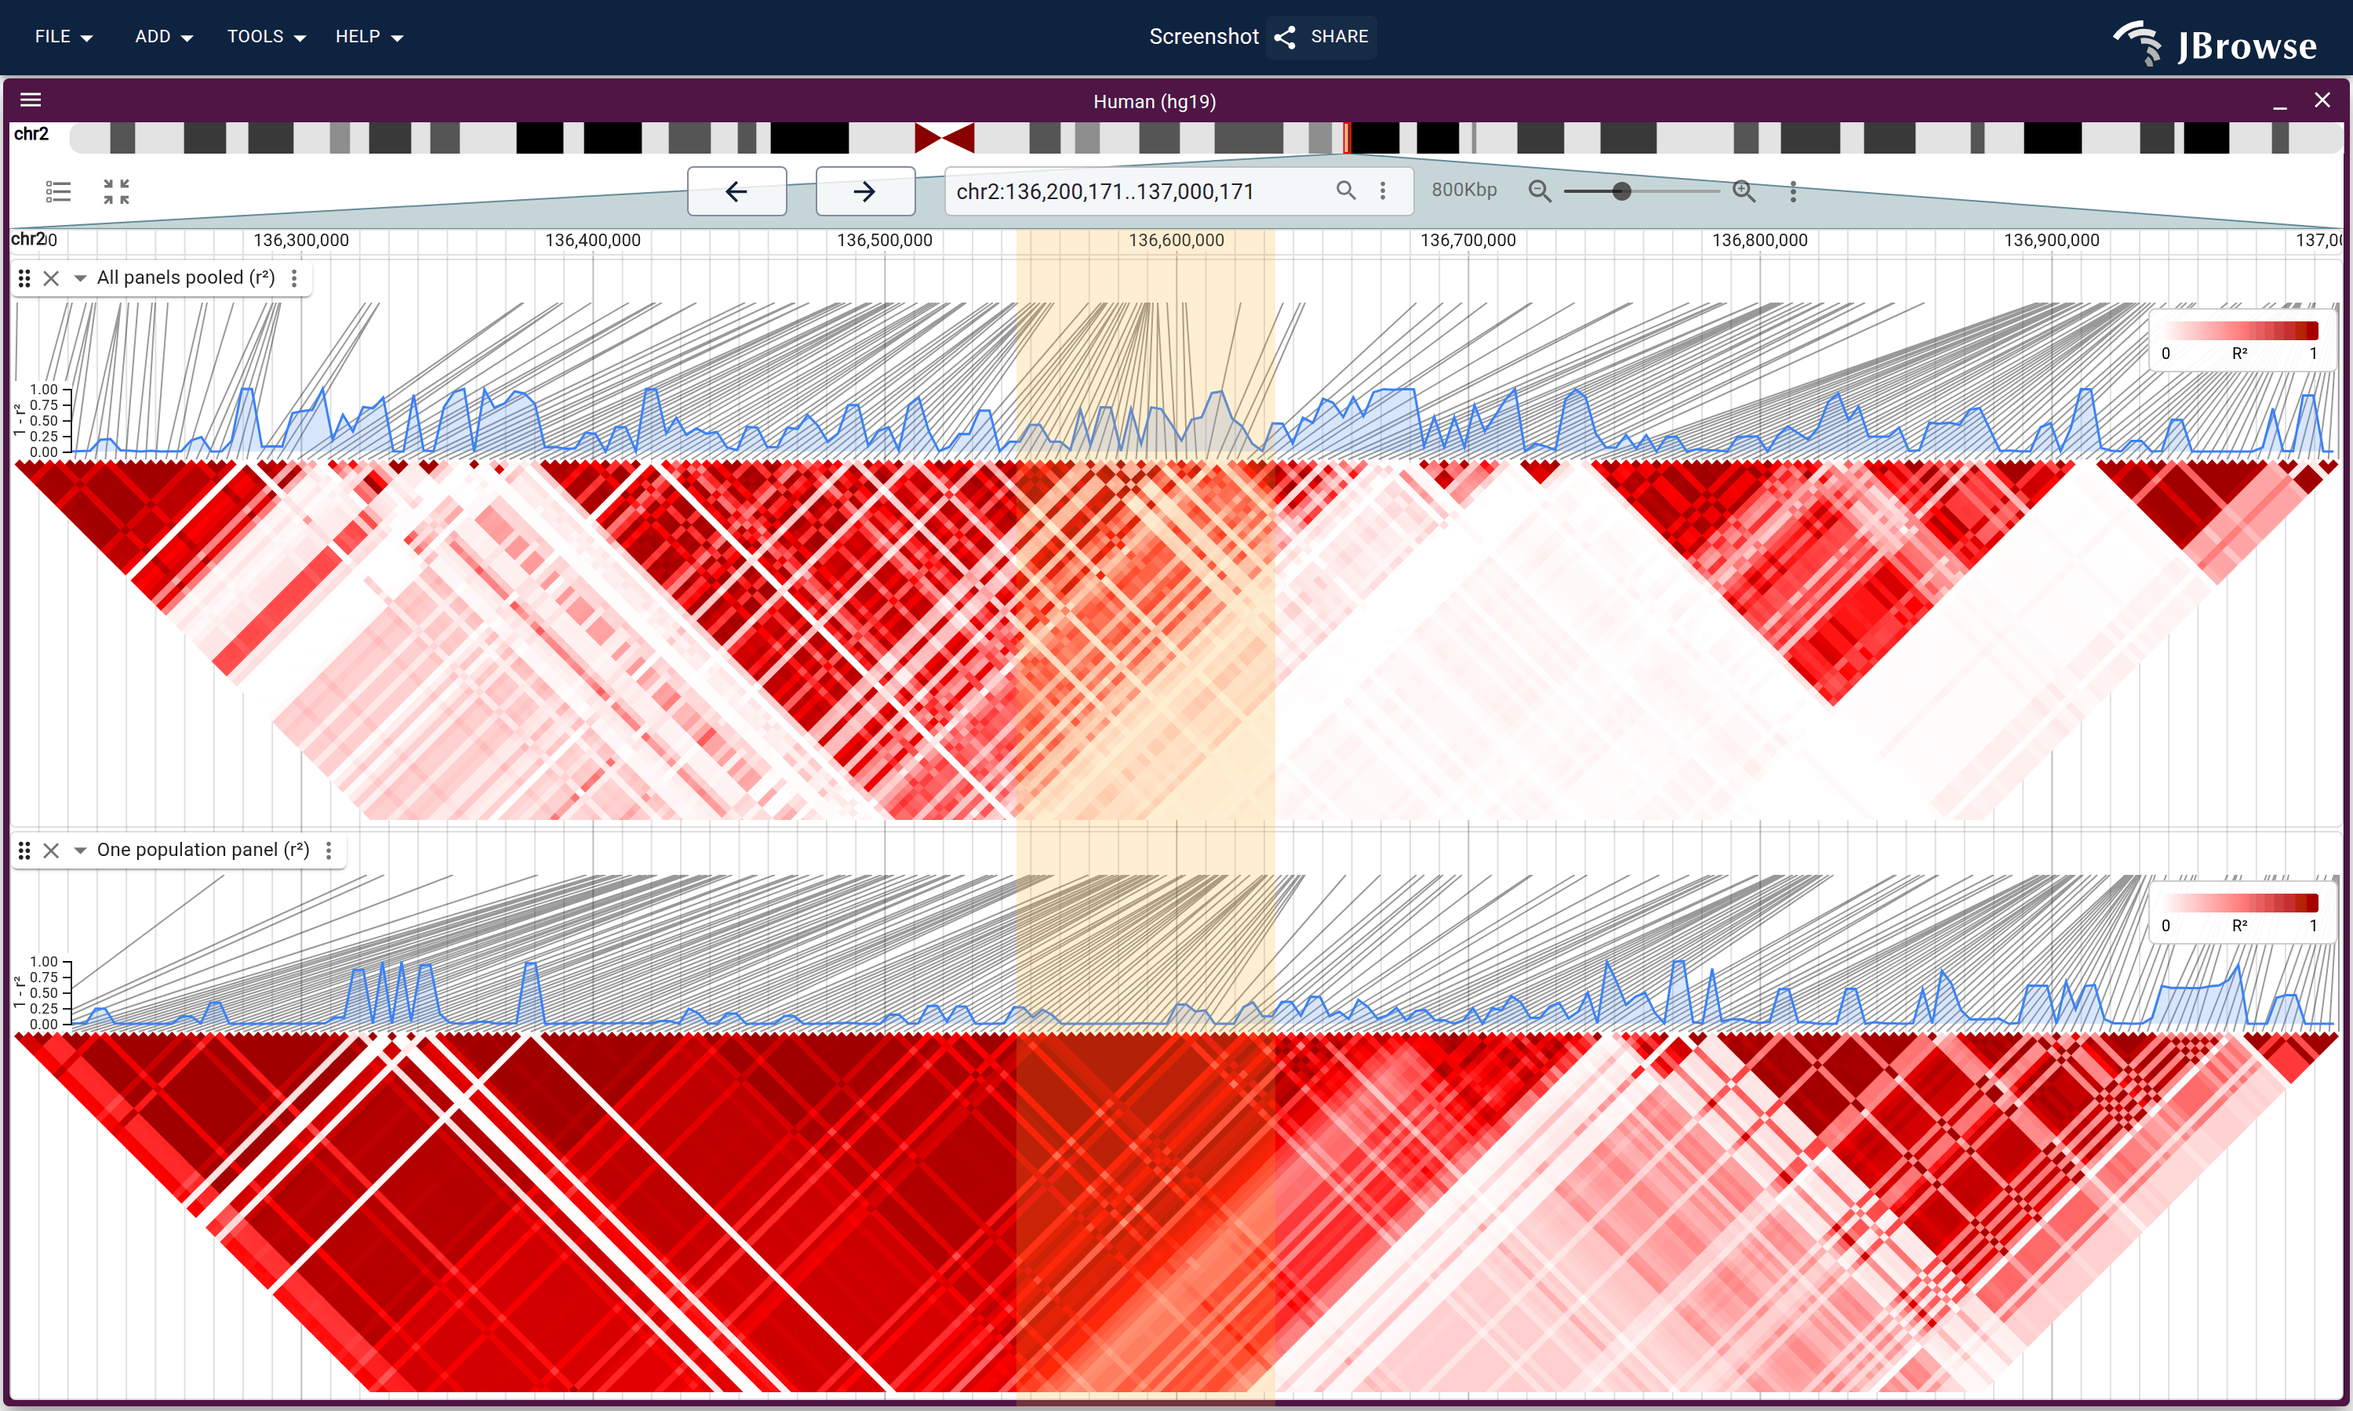
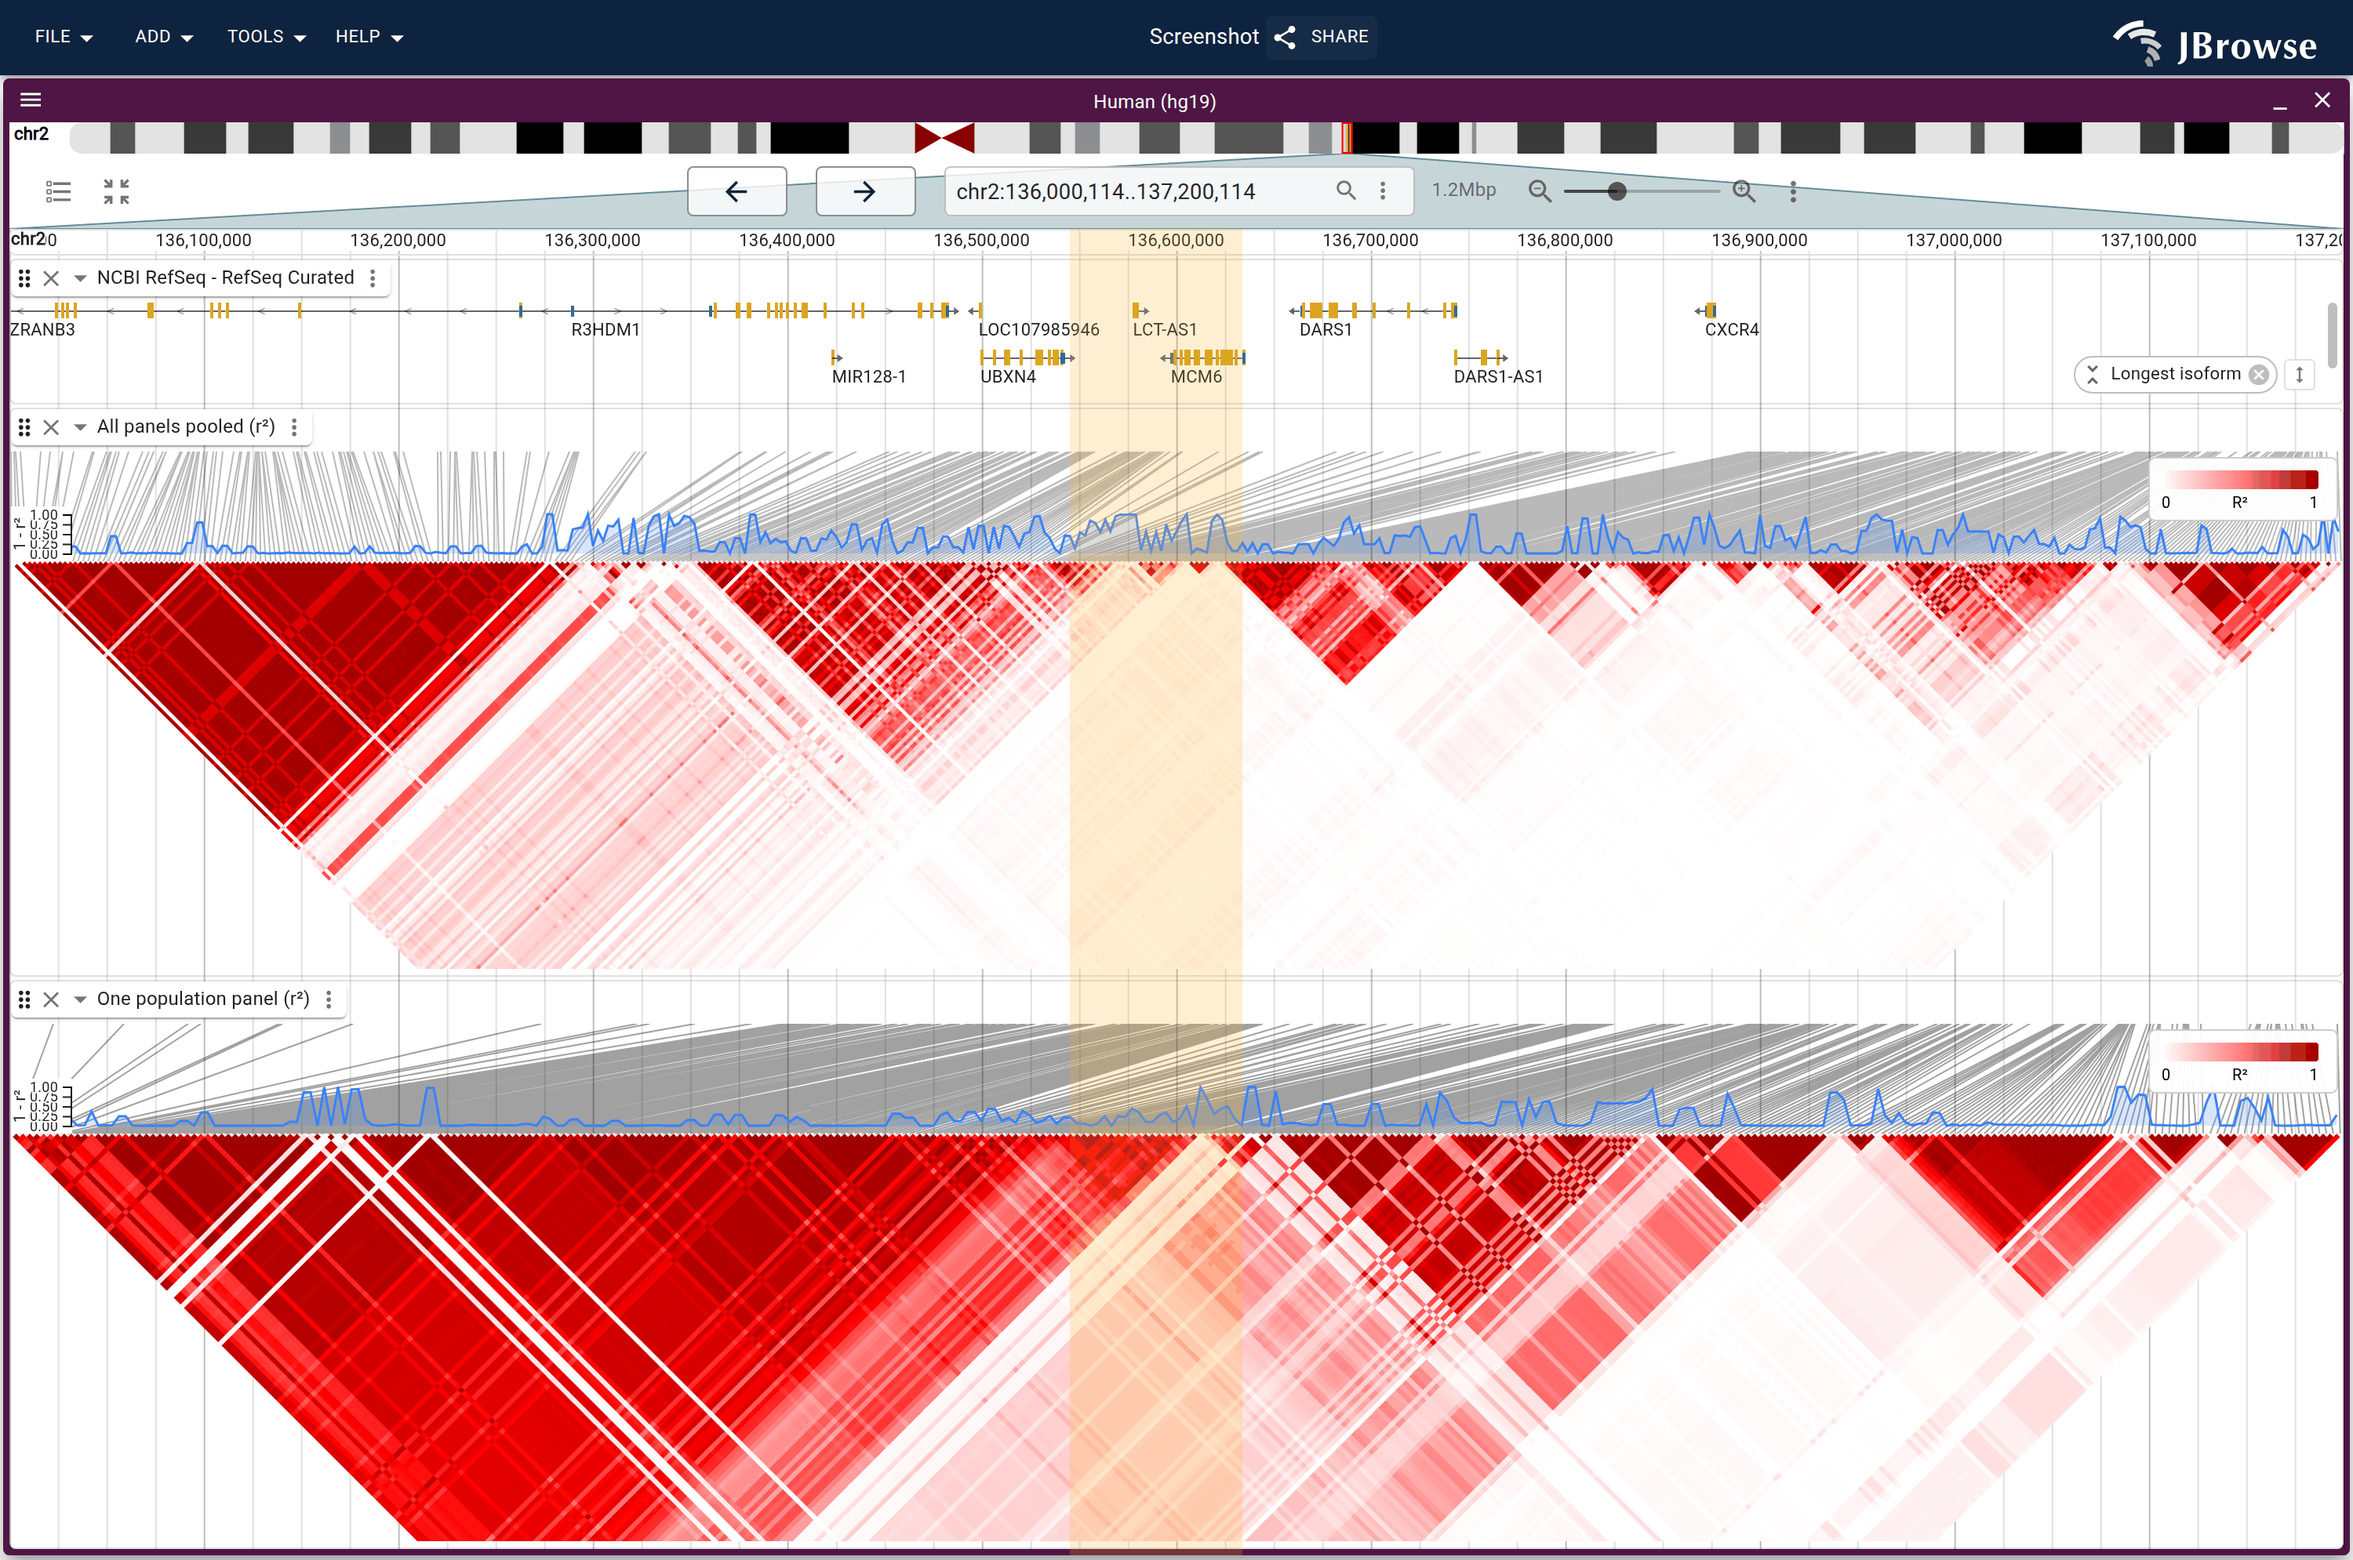
docs(ld): say what each panel shows, and give the LCT figure its genes
anopheles_2la: drop the highlight band and give each population lane its own
callout. The band said look here; it did not say that the block fills it in one
lane and not the other, which is the result.

lct_pooled_vs_panel: add the gene track so the block is visibly on LCT/MCM6,
widen to 1.2 Mb so the panel lane's block ends inside the frame, and cut the
connector zone. Not to 40: that zone also holds the recombination curve's axis
when useGenomicPositions is off.

Claude-Session: https://claude.ai/code/session_011xQEbTekTLMTSWopEJ2txk

diff --git a/website/scripts/specs/ld.ts b/website/scripts/specs/ld.ts
@@ -68,6 +68,14 @@ const lctTrack = (name: string) => ({
 // 136.82 Mb and collapses to ~0.15 immediately past it.
 const LCT_LOC = 'chr2:136,200,000-137,000,000'
 
+// The pooled-vs-panel figure takes a wider window than the single-panel one
+// (review: "zoom out more"), so the panel lane's block ends inside the picture
+// on both sides rather than running off the frame. Not wider than this: at 2 Mb
+// a second, larger block upstream of LCT dominates both lanes and the
+// pooled-versus-panel difference stops being the thing the eye lands on, which
+// is the whole subject.
+const LCT_WIDE_LOC = 'chr2:136,000,000-137,200,000'
+
 // Band the LCT/MCM6 locus so the reader sees the high-r² block sits right over
 // the lactase gene (the enhancer variant rs4988235 is in an MCM6 intron,
 // upstream of LCT).
@@ -149,18 +157,13 @@ const agLdTrack = (trackId: string, name: string, file: string) => ({
 })
 
 // Published 2La extent (White et al. 2007, AgamP3 coordinates, which are the
-// AgamP4 ones on this arm). It is banded rather than described so the reader can
-// check the claim by eye: the block fills the band and the rest of the arm is
-// white. The band is drawn by JBrowse from these coordinates, so unlike a
-// painted-on callout it cannot drift from the data.
-const TWO_LA_HIGHLIGHT = [
-  {
-    refName: 'chr2L',
-    start: 20_524_058,
-    end: 42_165_532,
-    assemblyName: 'anoGam3',
-  },
-]
+// AgamP4 ones on this arm). Used to anchor the two callouts, one per population
+// lane, so each sits over the span it is about. It was also drawn as a
+// `highlight` band across both lanes; review asked for that off, and it was
+// doing the callouts' job badly anyway — a tinted rectangle says "look here"
+// and the reader still has to be told that the block filling it in one lane and
+// not the other is the whole result.
+const TWO_LA_LOCUS = 'chr2L:20,524,058-42,165,532'
 
 // The per-population point, shown rather than asserted, WITHOUT making a figure
 // out of human population differences. Both lanes are the same locus, window,
@@ -195,6 +198,15 @@ const lctPanelTrack = (trackId: string, name: string, file: string) => ({
       showRecombination: true,
       minorAlleleFrequencyFilter: 0.35,
       height: 330,
+      // The connector zone is a fan of lines from each SNP down to its column,
+      // and at this window there are enough of them to read as a solid grey
+      // wedge. Review asked for it smaller; 100 is the schema default. Not
+      // smaller than this: with `useGenomicPositions` off, this zone is also
+      // where the recombination curve and its 0..1 axis are drawn
+      // (`effectiveLineZoneHeight` in LDDisplay/shared.ts), and at 40 the tick
+      // labels overlap into a smudge. `recombinationZoneHeight` does NOT get
+      // the space back here, it only applies on the genomic-positions path.
+      lineZoneHeight: 70,
     },
   ],
 })
@@ -220,9 +232,19 @@ export const ldSpecs: ScreenshotSpec[] = [
         {
           type: 'LinearGenomeView',
           assembly: 'hg19',
-          loc: LCT_LOC,
+          loc: LCT_WIDE_LOC,
           highlight: LCT_HIGHLIGHT,
           tracks: [
+            // The genes, so the band has something to be over (review: "we need
+            // to add the gene track ... we need to see why this is important").
+            // showOnlyGenes because 2 Mb of hg19 RefSeq is otherwise a wall of
+            // transcripts and the point is which gene the block sits on.
+            {
+              trackId: 'hg19-ncbiRefSeqCurated',
+              type: 'LinearBasicDisplay',
+              height: 60,
+              showOnlyGenes: true,
+            },
             { trackId: 'kgp_lct_pooled', type: 'LDDisplay' },
             { trackId: 'kgp_lct_panel', type: 'LDDisplay' },
           ],
@@ -234,9 +256,9 @@ export const ldSpecs: ScreenshotSpec[] = [
     readySelector:
       'body:has([data-testid="ld-display-done"][data-display-phase="ready"]):not(:has([data-testid="ld-display"])):not(:has([data-display-phase="loading"]))',
     readyTimeout: 240000,
-    // two LD tracks (330 triangle + 50 recombination zone each) + 2 headers +
-    // ruler/overview
-    viewportHeight: 900,
+    // the gene lane, then two LD tracks (330 triangle + 50 recombination zone
+    // each) + 2 headers + ruler/overview
+    viewportHeight: 995,
     settleMs: 8000,
   },
   {
@@ -262,7 +284,6 @@ export const ldSpecs: ScreenshotSpec[] = [
           // the whole arm, so the block is bounded by white on both sides
           // rather than cropped to the answer
           loc: 'chr2L',
-          highlight: TWO_LA_HIGHLIGHT,
           // No gene track. A whole arm is ~38 kb per pixel, so a gene is well
           // under one pixel and the track contributes nothing but a "Too many
           // features" banner across the top; showOnlyGenes changes which
@@ -288,24 +309,38 @@ export const ldSpecs: ScreenshotSpec[] = [
     // two LD tracks(300 each) + 2 headers + ruler/overview
     viewportHeight: 770,
     settleMs: 8000,
+    // One callout per lane, saying what each lane shows rather than only naming
+    // the span (review: "a red text annotation on both cameroon and gabon
+    // tracks that says why this is interesting"). Both anchor to the same
+    // published locus in their own track, so they sit over the span they
+    // describe and move with the layout. chr2L, not 2L: the anchor locus is
+    // resolved against the assembly's canonical names (the .ld.gz's own 2L is
+    // the adapter's business), so a bare name here resolves to nothing and
+    // fails the spec outright.
     annotations: [
       {
         type: 'text',
-        // Names the band so the figure reads without its caption, which is what
-        // a gallery thumbnail needs. Anchored to the band's own locus in the
-        // upper track rather than positioned by hand, so it tracks the layout.
-        // chr2L, not 2L: the anchor locus is resolved against the assembly's
-        // canonical names (the .ld.gz's own 2L is the adapter's business), so a
-        // bare name here resolves to nothing and fails the spec outright
         anchor: {
           track: 'ag1000g_2l_cmgam',
-          locus: 'chr2L:20,524,058-42,165,532',
+          locus: TWO_LA_LOCUS,
           fracY: 0,
-          dy: 18,
+          dy: 20,
         },
-        text: '2La inversion',
+        text: '2La inversion, both arrangements present:\nthe whole span is one block',
         fontSize: 18,
-        maxWidth: 200,
+        maxWidth: 430,
+      },
+      {
+        type: 'text',
+        anchor: {
+          track: 'ag1000g_2l_gagam',
+          locus: TWO_LA_LOCUS,
+          fracY: 0,
+          dy: 20,
+        },
+        text: 'Same span, one arrangement fixed:\nnothing to link',
+        fontSize: 18,
+        maxWidth: 430,
       },
     ],
   },

diff --git a/website/docs/tutorials/linkage_disequilibrium.md b/website/docs/tutorials/linkage_disequilibrium.md
@@ -64,7 +64,7 @@ in _Anopheles gambiae_ spans roughly 22 Mb of chromosome arm 2L, far past what
 can be computed live from a VCF, so this one is precomputed with PLINK and read
 through [`PlinkLDTabixAdapter`](/docs/config/plinkldtabixadapter).
 
-<Figure src="/img/ld/anopheles_2la.png" caption="Ag1000G chromosome arm 2L. The banded region is the published 2La extent: r² fills it in the Cameroon panel, and the Gabon panel below has nothing there under identical settings. Both panels carry a separate block at the low-coordinate end of the arm."/>
+<Figure src="/img/ld/anopheles_2la.png" caption="Ag1000G chromosome arm 2L, the same window and settings in both panels. r² fills the published 2La extent in the Cameroon panel and there is nothing there in the Gabon panel. Both panels carry a separate block at the low-coordinate end of the arm."/>
 
 The band is drawn from the published breakpoint coordinates, so the block's
 edges can be checked against them by eye rather than described. The lower panel
